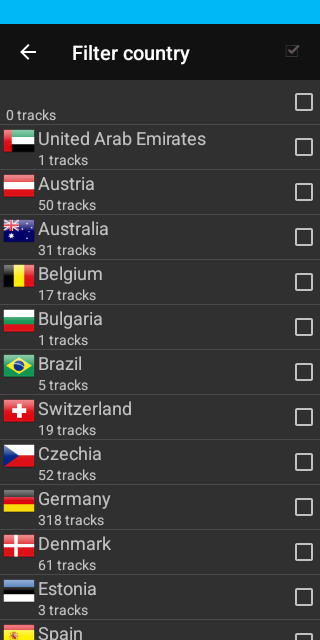
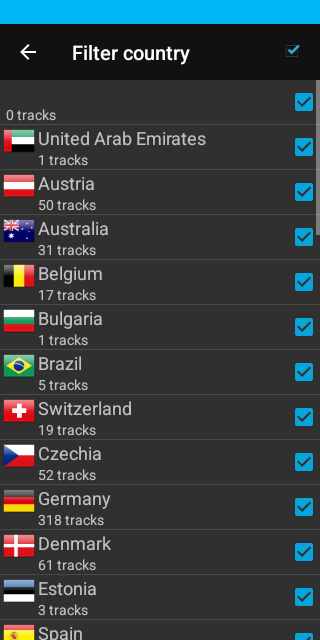
Click all countries

diff --git a/MXApp/src/androidTest/java/info/mx/tracks/ActivityFilterCountryTest.kt b/MXApp/src/androidTest/java/info/mx/tracks/ActivityFilterCountryTest.kt
@@ -34,6 +34,9 @@ class ActivityFilterCountryTest : BaseSyncTest() {
 
     @Test
     fun smokeTestSimplyStart() {
+        onView(withId(R.id.action_settings_filter_country)).perform(click())
+        Thread.sleep(1000)
+
         // This is the first time settings activity with always changed version number
         //onView(isRoot()).captureToBitmap().writeToTestStorage("${javaClass.simpleName}_${nameRule.methodName}-1")
 //        Espresso.pressBack()
@@ -45,6 +48,17 @@ class ActivityFilterCountryTest : BaseSyncTest() {
             .atPosition(3)
             .perform(click())
         onView(isRoot()).captureToBitmap().writeToTestStorage("${javaClass.simpleName}_${nameRule.methodName}-4")
+        onView(withId(android.R.id.list)).perform(swipeDown())
+        onView(withId(android.R.id.list)).perform(swipeDown())
+        onView(withId(android.R.id.list)).perform(swipeDown())
+        onView(withId(android.R.id.list)).perform(swipeDown())
+        // hide USA
+        onData(anything())
+            .inAdapterView(isAssignableFrom(ListView::class.java))
+            .atPosition(42)
+            .perform(click())
+        Thread.sleep(1000)
+        onView(isRoot()).captureToBitmap().writeToTestStorage("${javaClass.simpleName}_${nameRule.methodName}-5")
     }
 
 }

diff --git a/MXApp/src/main/java/info/mx/tracks/settings/FragmentFilterCountry.kt b/MXApp/src/main/java/info/mx/tracks/settings/FragmentFilterCountry.kt
@@ -39,7 +39,10 @@ class FragmentFilterCountry : ListFragmentBase(), LoaderManager.LoaderCallbacks<
 
     override fun onViewCreated(view: View, savedInstanceState: Bundle?) {
         super.onViewCreated(view, savedInstanceState)
+        val list = getView()?.findViewById<ListView>(android.R.id.list)
+        list!!.isScrollbarFadingEnabled = false
         fillData()
+
         setEmptyText(getString(R.string.empty))
         setHasOptionsMenu(true)
         loaderManager.initLoader(0, this.arguments, this)
@@ -59,8 +62,7 @@ class FragmentFilterCountry : ListFragmentBase(), LoaderManager.LoaderCallbacks<
             val cRec = CountrycountRecord.fromCursor(cursor)
             if (view.id == R.id.imFilterCountry) {
                 if (cursor.getString(columnIndex) != null) {
-                    val value =
-                        cursor.getString(columnIndex).lowercase(Locale.getDefault()) + "2x"
+                    val value = cursor.getString(columnIndex).lowercase(Locale.getDefault()) + "2x"
                     val id = requireActivity().resources.getIdentifier(
                         value,
                         "drawable",
